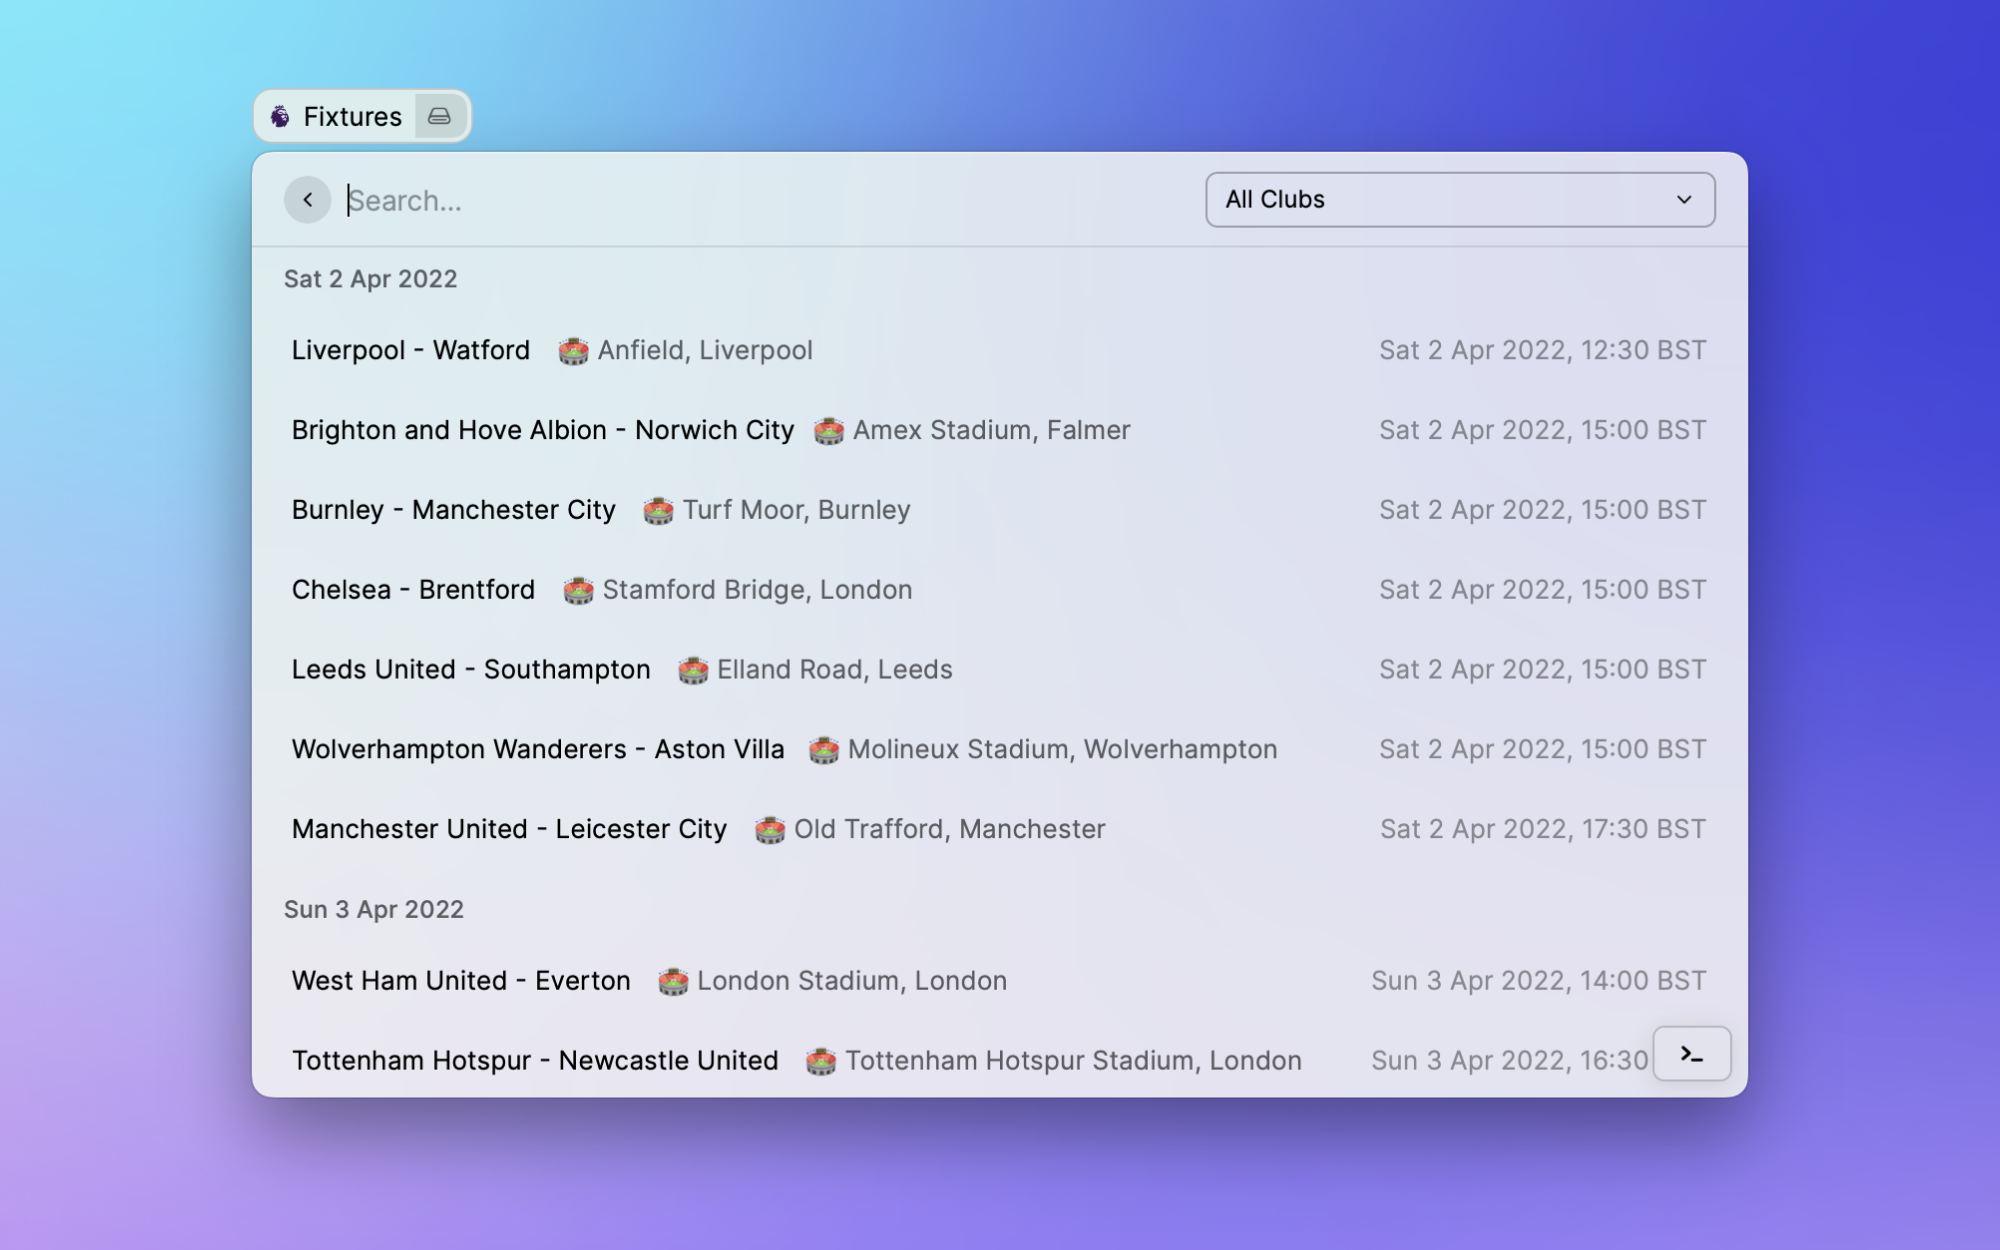
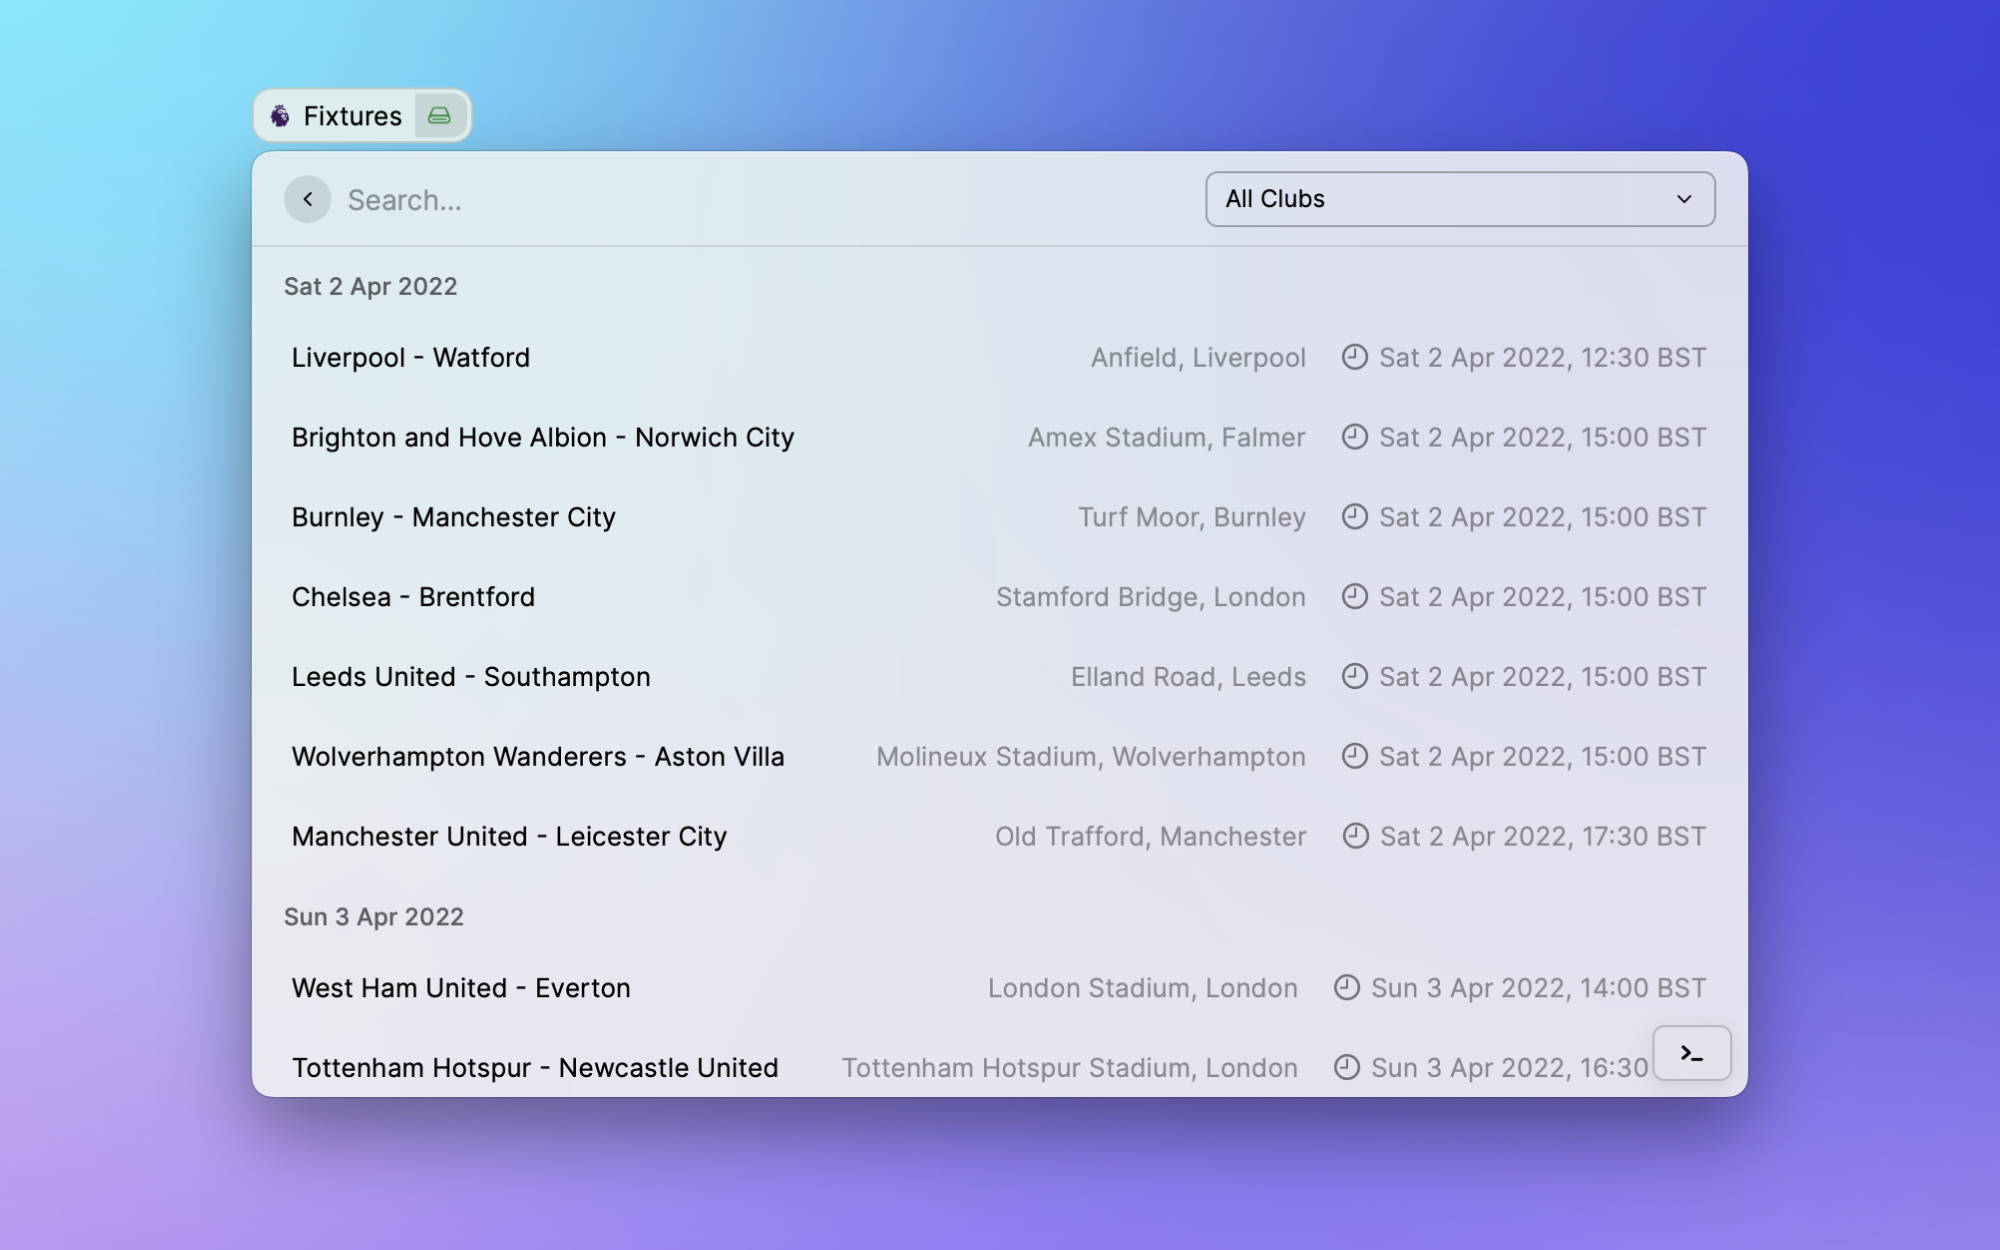
fix: update fixtures

diff --git a/src/fixture.tsx b/src/fixture.tsx
@@ -1,4 +1,4 @@
-import { List } from "@raycast/api";
+import { Icon, List } from "@raycast/api";
 import { useEffect, useState } from "react";
 import groupBy from "lodash.groupby";
 import { getFixtures } from "./api";
@@ -39,8 +39,12 @@ export default function Fixture() {
                 <List.Item
                   key={match.id}
                   title={`${match.teams[0].team.name} - ${match.teams[1].team.name}`}
-                  subtitle={`🏟 ${match.ground.name}, ${match.ground.city}`}
-                  accessories={[{ text: match.kickoff.label || "TBC" }]}
+                  accessories={[
+                    {
+                      text: `${match.ground.name}, ${match.ground.city}`,
+                    },
+                    { text: match.kickoff.label || "TBC", icon: Icon.Clock },
+                  ]}
                 />
               );
             })}

diff --git a/src/table.tsx b/src/table.tsx
@@ -105,7 +105,10 @@ export default function GetTables() {
 
               const props: Partial<List.Item.Props> = showDetails
                 ? {
-                    accessories: [{ text: overall.points.toString(), icon }],
+                    accessories: [
+                      { text: overall.points.toString() },
+                      { icon },
+                    ],
                     detail: (
                       <List.Item.Detail markdown={json2md(club(entry))} />
                     ),
